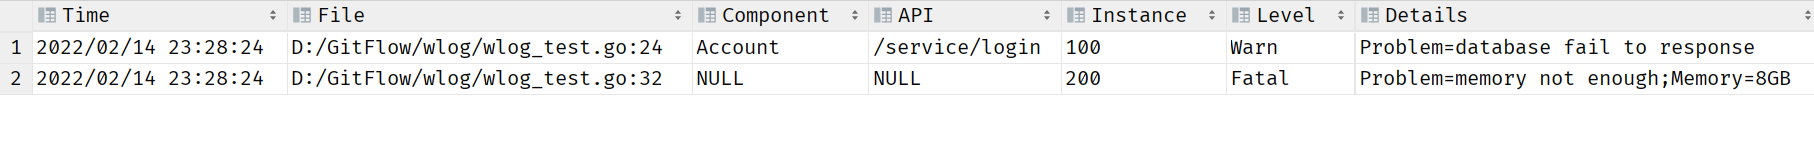
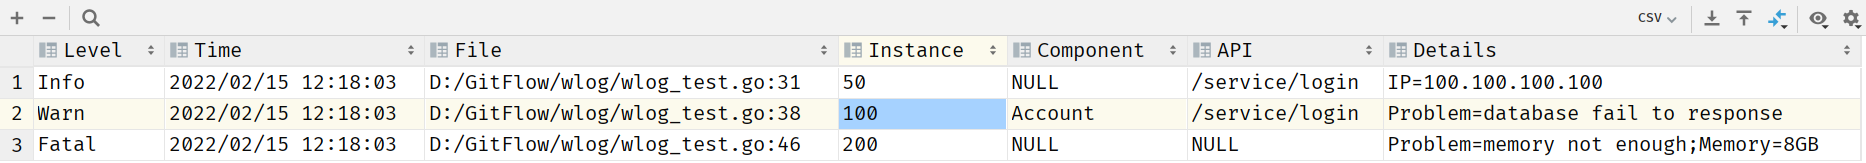
all: add more comments

diff --git a/wlog_test.go b/wlog_test.go
@@ -1,7 +1,7 @@
 package wlog_test
 
 import (
-	"errors"
+	"net/http"
 
 	"github.com/axli-personal/wlog"
 	"os"
@@ -12,27 +12,40 @@ func TestAll(t *testing.T) {
 	var logger wlog.Logger
 
 	logger = wlog.NewLogger(os.Stdout, "||")
-	logger = wlog.WithMaxLevel(logger, wlog.Info, true)
-	logger = wlog.WithExtract(logger, "Instance")
 	logger = wlog.WithExtract(logger, "API")
 	logger = wlog.WithExtract(logger, "Component")
+	logger = wlog.WithExtract(logger, "Instance")
 	logger = wlog.WithFlag(logger, wlog.Time|wlog.File)
+	logger = wlog.WithMaxLevel(logger, wlog.Info, true)
 
 	logger.MakeHeaders(nil)
 
-	err := errors.New("database fail to response")
+	request, err := http.NewRequest("GET", "10.10.10.10", nil)
+
+	logger.Log(wlog.Options{
+		{"Level", wlog.Debug},
+		{"RequestContent", request},
+		{"RequestError", err},
+	})
+
+	logger.Log(wlog.Options{
+		{"level", wlog.Info},
+		{"Instance", 50},
+		{"API", "/service/login"},
+		{"IP", "100.100.100.100"},
+	})
 
 	logger.Log(wlog.Options{
 		{"level", wlog.Warn},
-		{"Instance", "100"},
+		{"Instance", 100},
 		{"API", "/service/login"},
 		{"Component", "Account"},
-		{"Problem", err},
+		{"Problem", "database fail to response"},
 	})
 
 	logger.Log(wlog.Options{
 		{"level", "Fatal"},
-		{"Instance", "200"},
+		{"Instance", 200},
 		{"Problem", "memory not enough"},
 		{"Memory", "8GB"},
 	})

diff --git a/wlog.go b/wlog.go
@@ -1,4 +1,3 @@
-// Logging system designed for backend web application.
 package wlog
 
 type Options []struct {
@@ -7,6 +6,13 @@ type Options []struct {
 }
 
 type Logger interface {
+	// Log will output preprocessed options.
+	//
+	// Do not pass in any columns except you really know it.
 	Log(options Options, columns ...string)
+
+	// MakeHeaders will output headers.
+	//
+	// Pass in nil to generate headers.
 	MakeHeaders(headers []string)
 }

diff --git a/flags.go b/flags.go
@@ -6,11 +6,16 @@ import (
 	"time"
 )
 
+// These flags are supported in the system
+// and most of them are picked from std log.
 const (
 	Time = 1 << iota
 	File
 )
 
+// WithFlag will add flag information to the output.
+//
+// Pass in nil logger will cause panic.
 func WithFlag(logger Logger, flag int) Logger {
 	if logger == nil {
 		panic("can't create logger from nil")

diff --git a/extract.go b/extract.go
@@ -4,6 +4,11 @@ import (
 	"fmt"
 )
 
+// WithExtract will add extract specific column.
+//
+// Do not extract column whose lowercase matches "level".
+//
+// Pass in nil logger will cause panic.
 func WithExtract(logger Logger, keyword string) Logger {
 	if logger == nil {
 		panic("can't create logger from nil")

diff --git a/table.go b/table.go
@@ -7,6 +7,11 @@ import (
 	"sync"
 )
 
+// NewLogger create the base logger.
+//
+// Default writer: os.Stdout.
+//
+// Default split: "||"
 func NewLogger(writer io.Writer, split string) Logger {
 	if writer == nil {
 		writer = os.Stdout

diff --git a/README.md b/README.md
@@ -20,7 +20,8 @@ Our new principle: **Structured**, **Analyzable**, **Stable**.
 package main
 
 import (
-	"errors"
+	"net/http"
+
 	"github.com/axli-personal/wlog"
 	"os"
 )
@@ -29,27 +30,40 @@ func main() {
 	var logger wlog.Logger
 
 	logger = wlog.NewLogger(os.Stdout, "||")
-	logger = wlog.WithMaxLevel(logger, wlog.Info, true)
-	logger = wlog.WithExtract(logger, "Instance")
 	logger = wlog.WithExtract(logger, "API")
 	logger = wlog.WithExtract(logger, "Component")
+	logger = wlog.WithExtract(logger, "Instance")
 	logger = wlog.WithFlag(logger, wlog.Time|wlog.File)
+	logger = wlog.WithMaxLevel(logger, wlog.Info, true)
 
 	logger.MakeHeaders(nil)
 
-	err := errors.New("database fail to response")
+	request, err := http.NewRequest("GET", "10.10.10.10", nil)
+
+	logger.Log(wlog.Options{
+		{"Level", wlog.Debug},
+		{"RequestContent", request},
+		{"RequestError", err},
+	})
+
+	logger.Log(wlog.Options{
+		{"level", wlog.Info},
+		{"Instance", 50},
+		{"API", "/service/login"},
+		{"IP", "100.100.100.100"},
+	})
 
 	logger.Log(wlog.Options{
 		{"level", wlog.Warn},
-		{"Instance", "100"},
+		{"Instance", 100},
 		{"API", "/service/login"},
 		{"Component", "Account"},
-		{"Problem", err},
+		{"Problem", "database fail to response"},
 	})
 
 	logger.Log(wlog.Options{
 		{"level", "Fatal"},
-		{"Instance", "200"},
+		{"Instance", 200},
 		{"Problem", "memory not enough"},
 		{"Memory", "8GB"},
 	})
